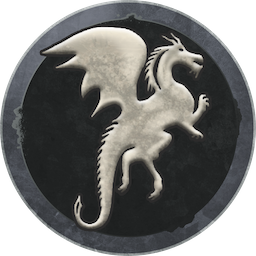
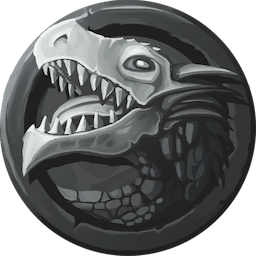
Added new tokens and database upgrade

diff --git a/src/tokens/index.js b/src/tokens/index.js
@@ -1,45 +1,67 @@
-import axes from "./Axes.png";
-import bird from "./Bird.png";
-import book from "./Book.png";
-import crown from "./Crown.png";
+import aberration from "./Aberration.png";
+import artificer from "./Artificer.png";
+import barbarian from "./Barbarian.png";
+import bard from "./Bard.png";
+import beast from "./Beast.png";
+import bloodHunter from "./Blood Hunter.png";
+import celestial from "./Celestial.png";
+import cleric from "./Cleric.png";
+import construct from "./Construct.png";
 import dragon from "./Dragon.png";
-import eye from "./Eye.png";
-import fist from "./Fist.png";
-import horse from "./Horse.png";
-import leaf from "./Leaf.png";
-import lion from "./Lion.png";
-import money from "./Money.png";
-import moon from "./Moon.png";
-import potion from "./Potion.png";
-import shield from "./Shield.png";
-import skull from "./Skull.png";
-import snake from "./Snake.png";
-import sun from "./Sun.png";
-import swords from "./Swords.png";
-import tree from "./Tree.png";
-import triangle from "./Triangle.png";
+import druid from "./Druid.png";
+import elemental from "./Elemental.png";
+import fey from "./Fey.png";
+import fiend from "./Fiend.png";
+import fighter from "./Fighter.png";
+import giant from "./Giant.png";
+import goblinoid from "./Goblinoid.png";
+import humanoid from "./Humanoid.png";
+import monk from "./Monk.png";
+import monstrosity from "./Monstrosity.png";
+import ooze from "./Ooze.png";
+import paladin from "./Paladin.png";
+import plant from "./Plant.png";
+import ranger from "./Ranger.png";
+import rouge from "./Rouge.png";
+import shapechanger from "./Shapechanger.png";
+import sorcerer from "./Sorcerer.png";
+import titan from "./Titan.png";
+import undead from "./Undead.png";
+import warlock from "./Warlock.png";
+import wizard from "./Wizard.png";
 
 export const tokenSources = {
-  axes,
-  bird,
-  book,
-  crown,
+  barbarian,
+  bard,
+  cleric,
+  druid,
+  fighter,
+  monk,
+  paladin,
+  ranger,
+  rouge,
+  sorcerer,
+  warlock,
+  wizard,
+  artificer,
+  bloodHunter,
+  aberration,
+  beast,
+  celestial,
+  construct,
   dragon,
-  eye,
-  fist,
-  horse,
-  leaf,
-  lion,
-  money,
-  moon,
-  potion,
-  shield,
-  skull,
-  snake,
-  sun,
-  swords,
-  tree,
-  triangle,
+  elemental,
+  fey,
+  fiend,
+  giant,
+  goblinoid,
+  humanoid,
+  monstrosity,
+  ooze,
+  plant,
+  shapechanger,
+  titan,
+  undead,
 };
 
 export const tokens = Object.keys(tokenSources).map((key) => ({

diff --git a/src/database.js b/src/database.js
@@ -26,6 +26,68 @@ function loadVersions(db) {
           map.file = mapBuffers[map.id];
         });
     });
+  // v1.3.0 - Added new default tokens
+  db.version(3)
+    .stores({})
+    .upgrade((tx) => {
+      return tx
+        .table("states")
+        .toCollection()
+        .modify((state) => {
+          function mapTokenId(id) {
+            switch (id) {
+              case "__default-Axes":
+                return "__default-barbarian";
+              case "__default-Bird":
+                return "__default-druid";
+              case "__default-Book":
+                return "__default-wizard";
+              case "__default-Crown":
+                return "__default-humanoid";
+              case "__default-Dragon":
+                return "__default-dragon";
+              case "__default-Eye":
+                return "__default-warlock";
+              case "__default-Fist":
+                return "__default-monk";
+              case "__default-Horse":
+                return "__default-fey";
+              case "__default-Leaf":
+                return "__default-druid";
+              case "__default-Lion":
+                return "__default-monstrosity";
+              case "__default-Money":
+                return "__default-humanoid";
+              case "__default-Moon":
+                return "__default-cleric";
+              case "__default-Potion":
+                return "__default-sorcerer";
+              case "__default-Shield":
+                return "__default-paladin";
+              case "__default-Skull":
+                return "__default-undead";
+              case "__default-Snake":
+                return "__default-beast";
+              case "__default-Sun":
+                return "__default-cleric";
+              case "__default-Swords":
+                return "__default-fighter";
+              case "__default-Tree":
+                return "__default-plant";
+              case "__default-Triangle":
+                return "__default-sorcerer";
+              default:
+                return "__default-fighter";
+            }
+          }
+          for (let stateId in state.tokens) {
+            state.tokens[stateId].tokenId = mapTokenId(
+              state.tokens[stateId].tokenId
+            );
+            state.tokens[stateId].type = "default";
+          }
+        });
+    });
 }
 
 // Get the dexie database used in DatabaseContext

diff --git a/src/routes/Game.js b/src/routes/Game.js
@@ -450,7 +450,7 @@ function Game() {
     for (let defaultToken of defaultTokens) {
       defaultTokensWithIds.push({
         ...defaultToken,
-        id: `__default-${defaultToken.name}`,
+        id: `__default-${defaultToken.key}`,
         owner: userId,
       });
     }

diff --git a/src/components/token/Tokens.js b/src/components/token/Tokens.js
@@ -23,6 +23,7 @@ function Tokens({ onCreateMapTokenState, tokens }) {
       onCreateMapTokenState({
         id: shortid.generate(),
         tokenId: token.id,
+        type: token.type,
         owner: userId,
         size: tokenSize,
         label: "",
